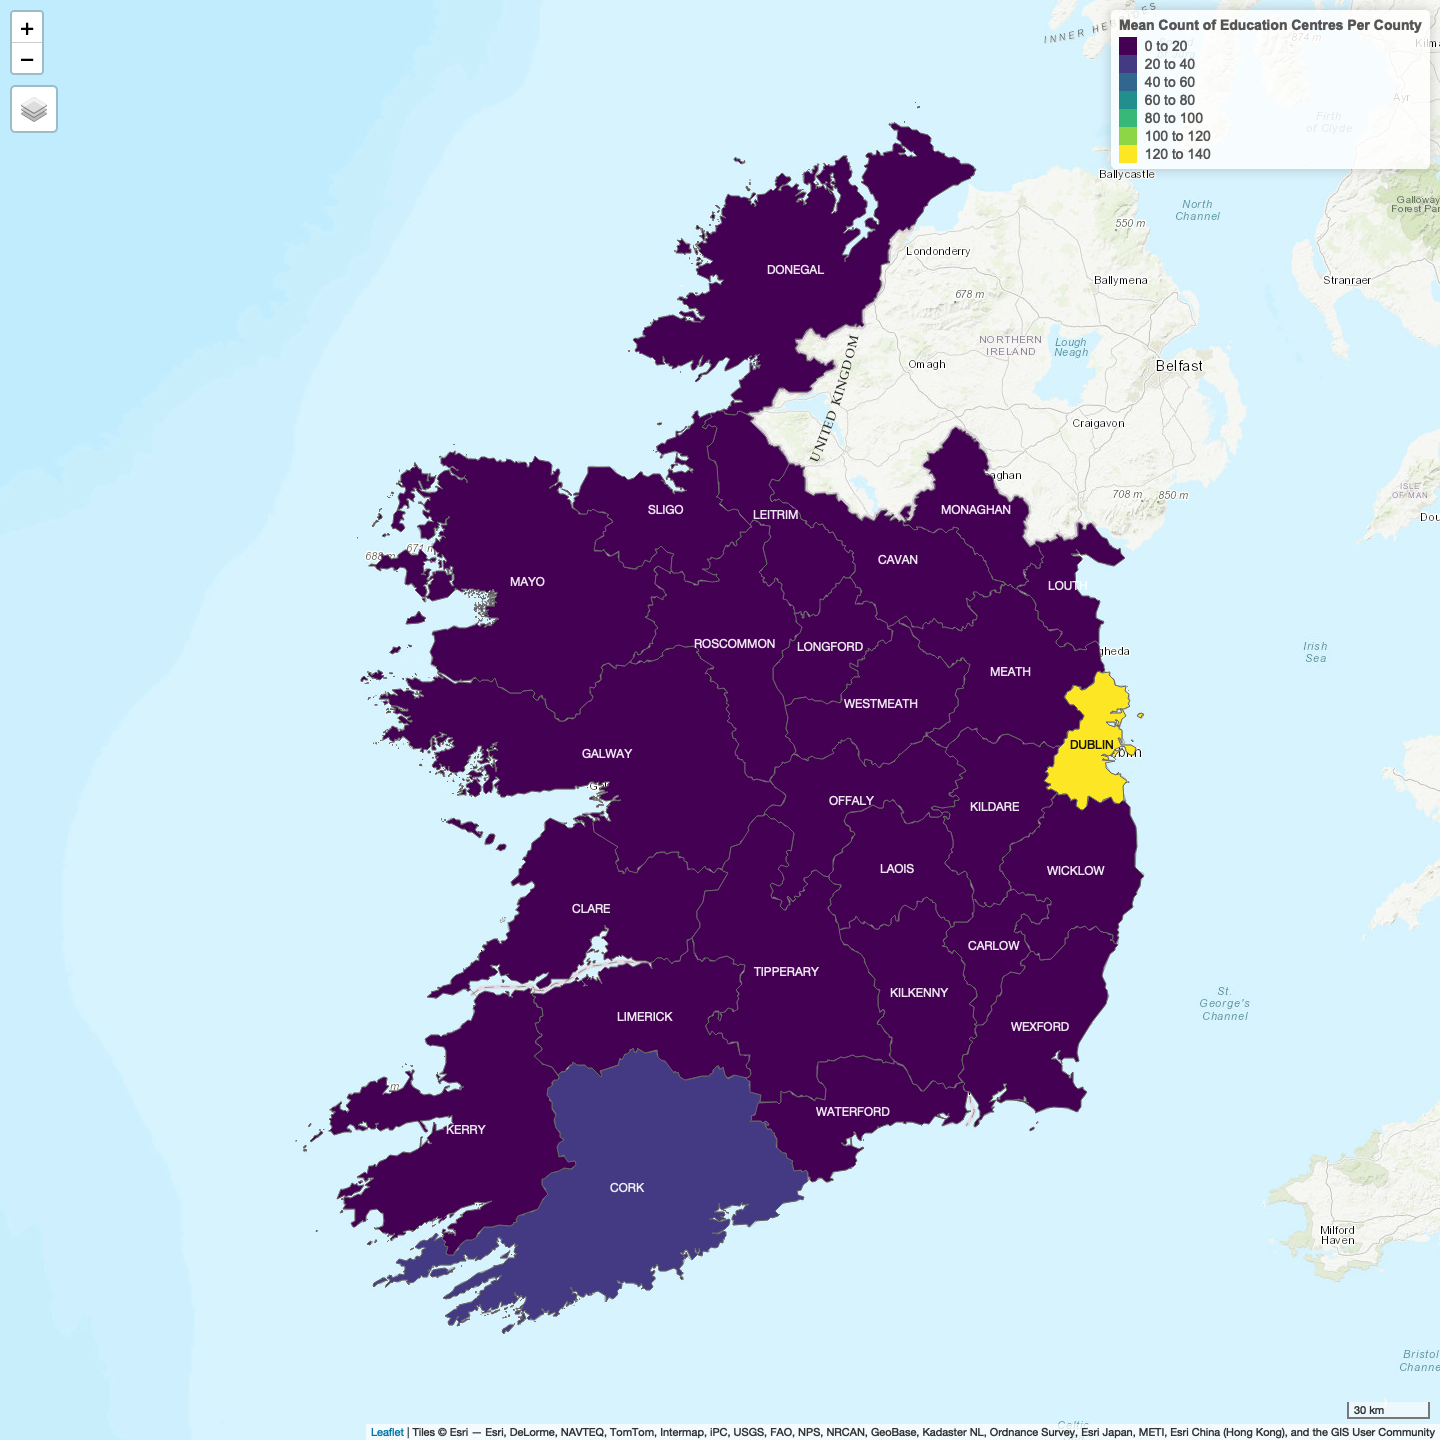
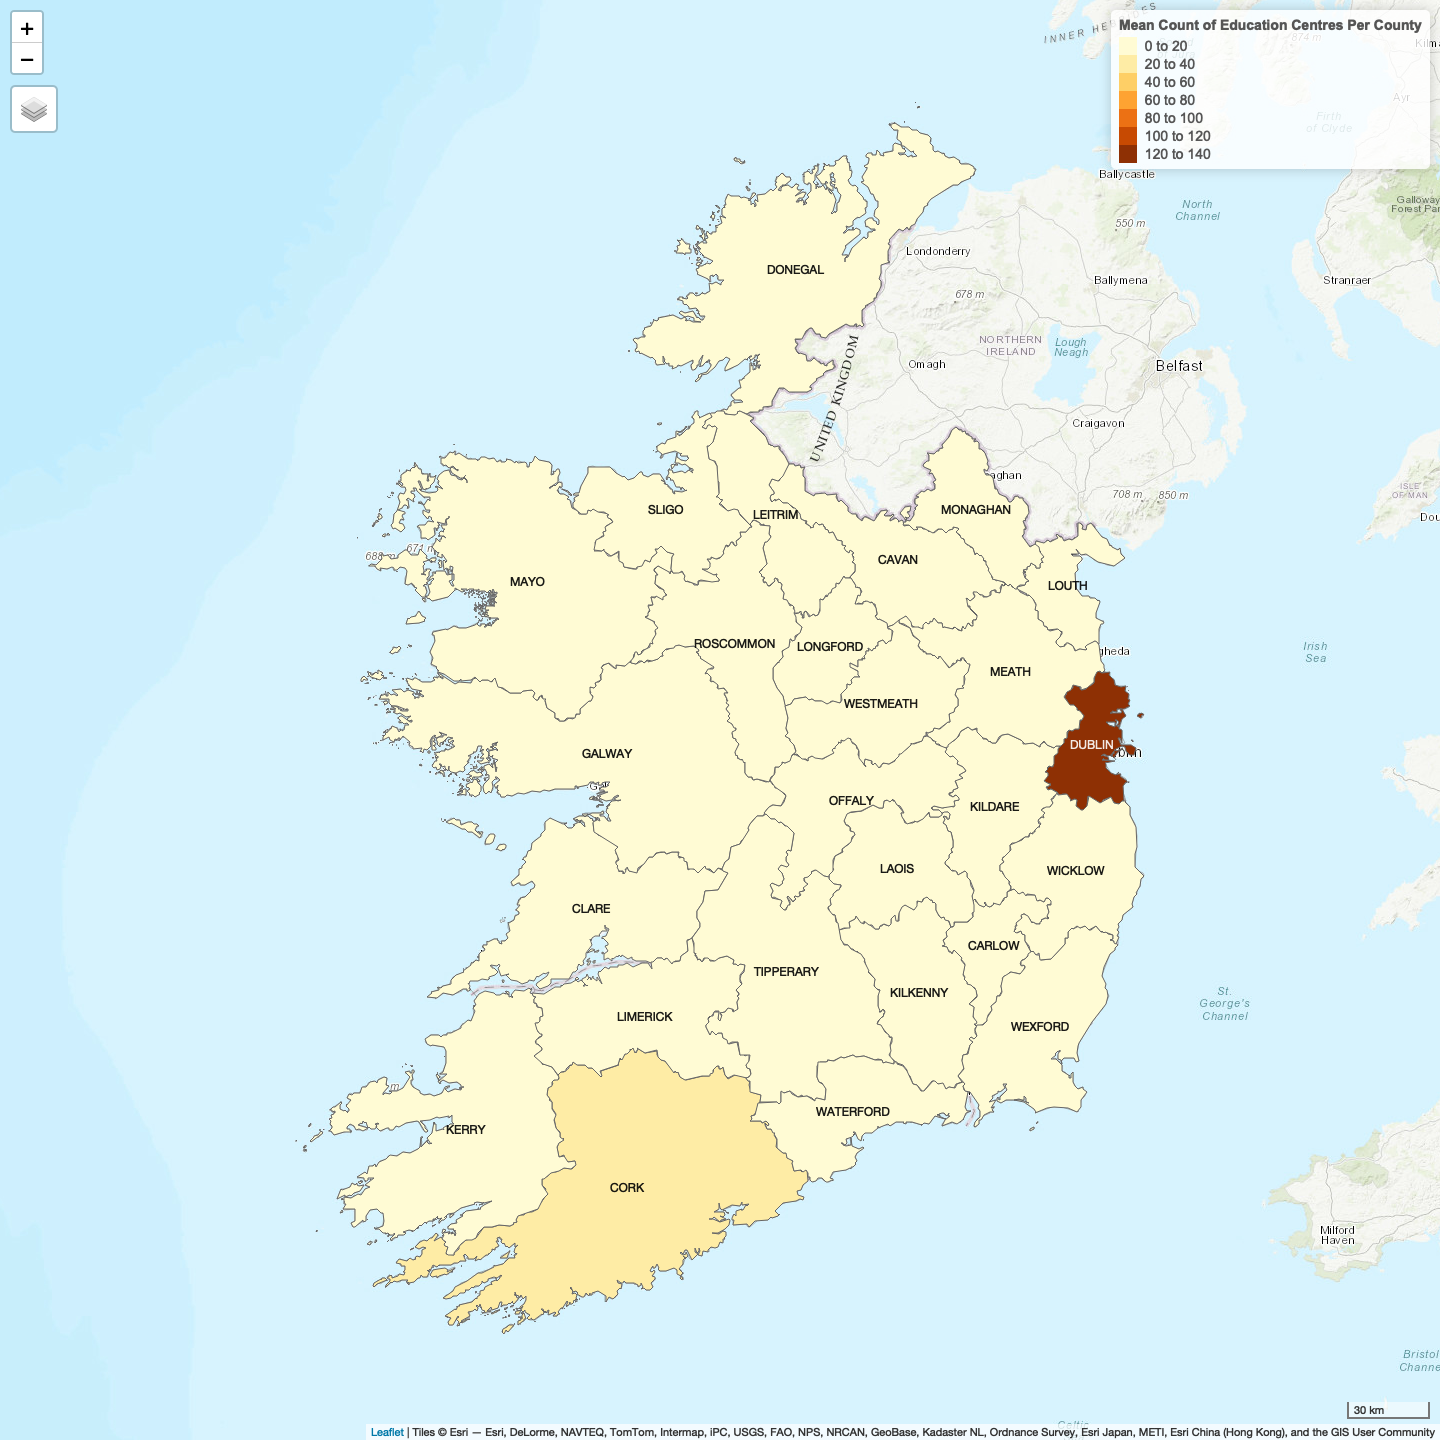
refactor: map colour

Changed region(s): [[0.2188, 0.0938, 0.8125, 0.9375], [0.75, 0.0312, 0.8125, 0.125]]

diff --git a/scripts/exploration/DataExploration-HousingDataset.md b/scripts/exploration/DataExploration-HousingDataset.md
@@ -1714,7 +1714,7 @@ tm_shape(shp = shp_ireland) +
   tm_polygons(
     col = "nearestEducationCentres", 
     title = "Mean Count of Education Centres Per County", 
-    palette = "viridis",                 
+    palette = "YlOrBr",                 
     stretch.palette = FALSE, 
     n = 6
   ) +  
